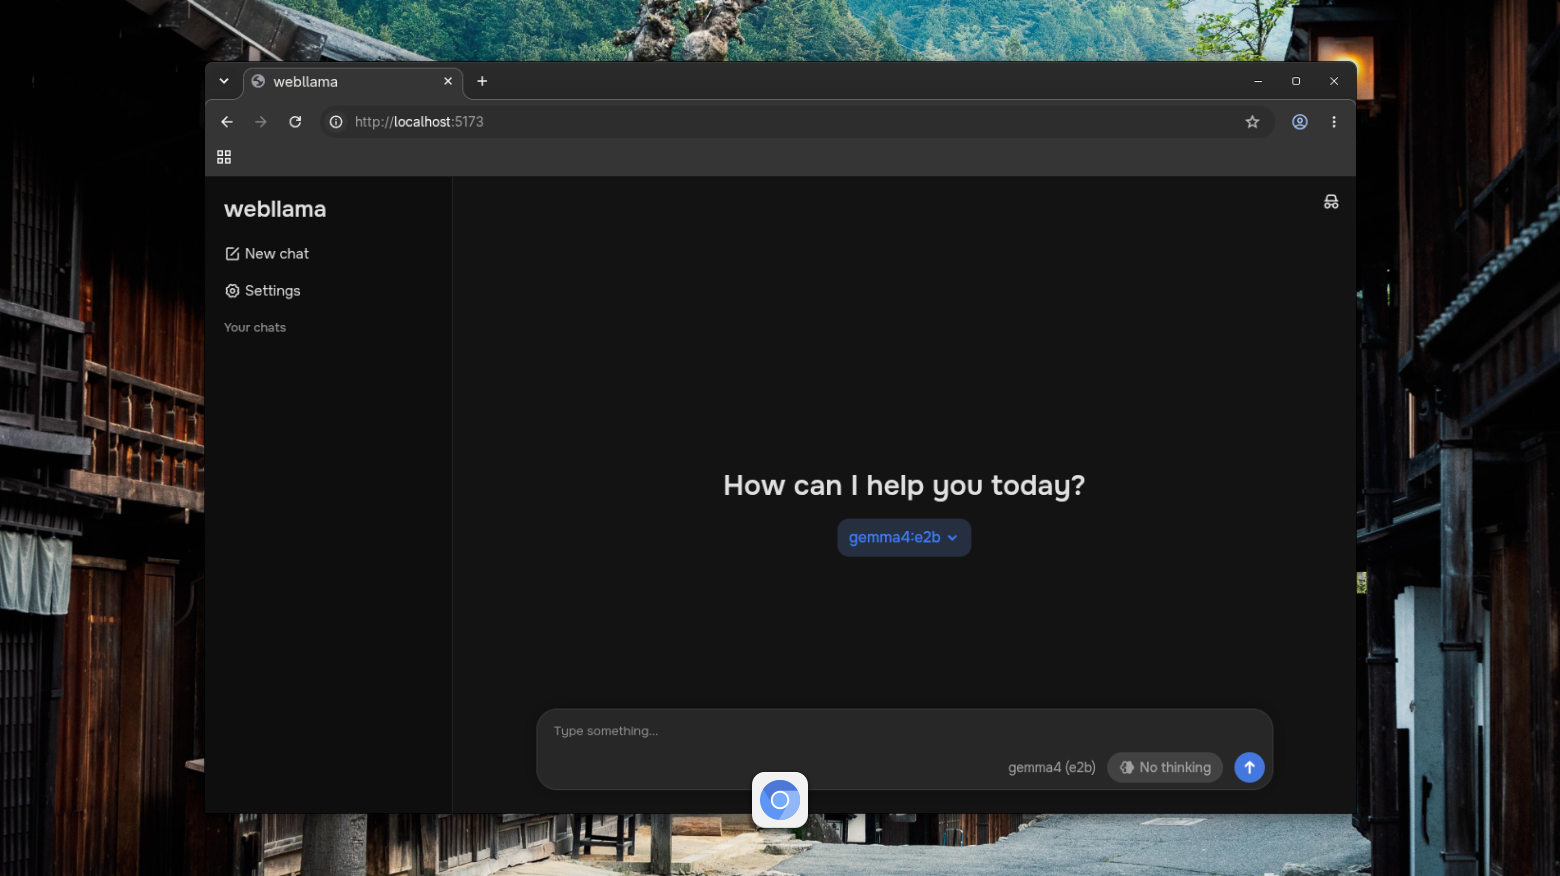
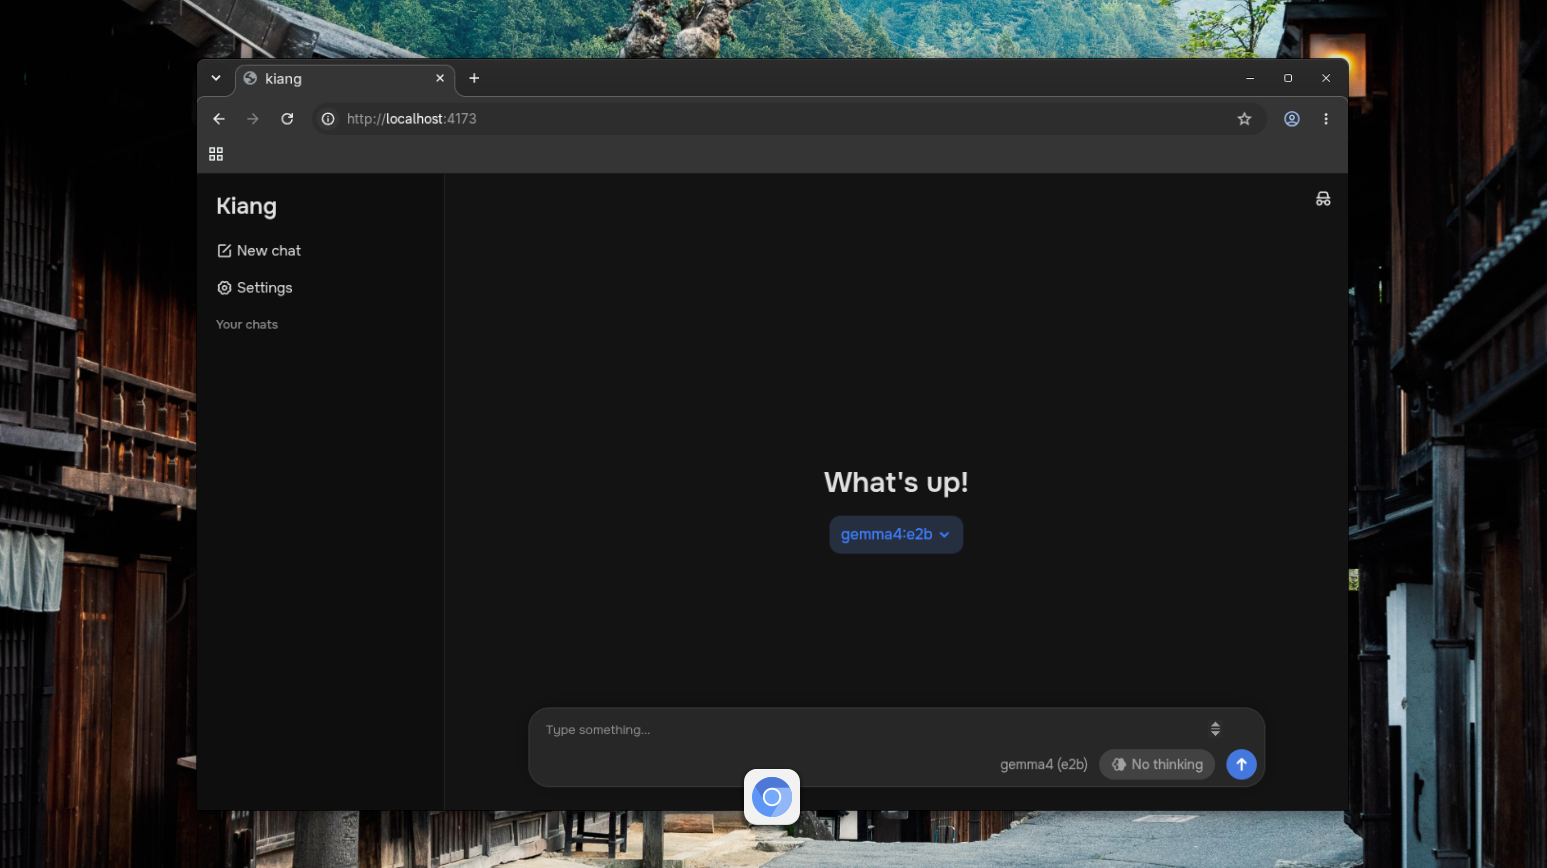
chore: update images

diff --git a/index.html b/index.html
@@ -3,7 +3,8 @@
   <head>
     <meta charset="UTF-8" />
     <meta name="viewport" content="width=device-width, initial-scale=1.0" />
-    <title>kiang</title>
+    <title>Kiang</title>
+    <link rel="icon" href="/src-tauri/icons/icon.ico" type="image/x-icon">
   </head>
   <body>
     <div id="app"></div>
